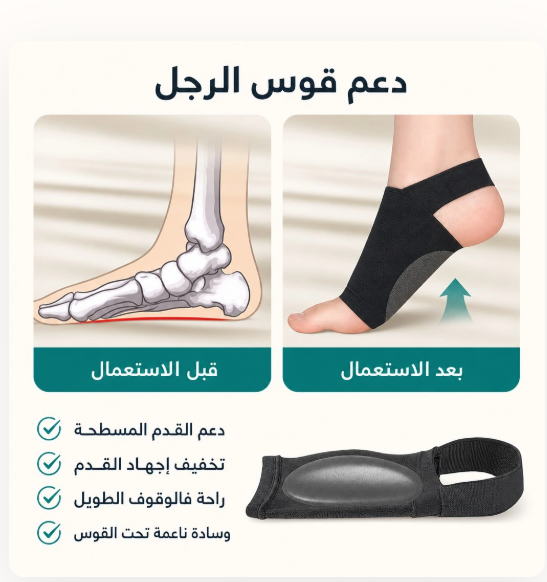
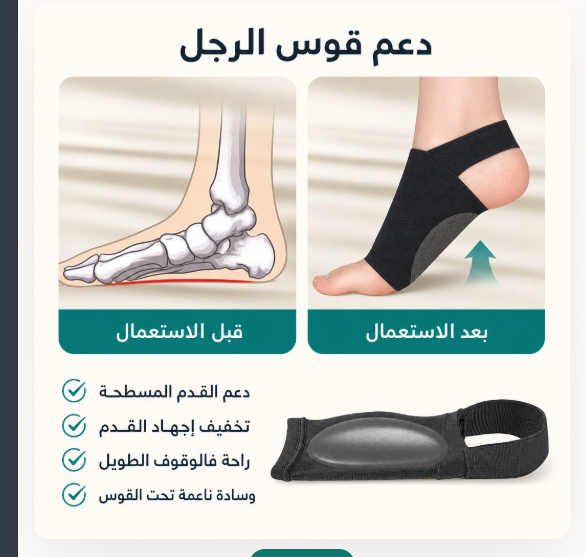
Move arch benefits image below cart items and into checkout

diff --git a/components/cart/cart-drawer.tsx b/components/cart/cart-drawer.tsx
@@ -54,18 +54,6 @@ export function CartDrawer() {
             </Dialog.Close>
           </div>
           <div className="flex-1 overflow-y-auto py-5">
-            {items.some((item) => item.productId === "arch") ? (
-              <div className="mb-4 overflow-hidden rounded-2xl border border-brand-primary/10 bg-[#f7f4ef]">
-                <Image
-                  src="/images/products/arch-cart-benefits.png"
-                  alt="دعم قوس الرجل — قبل وبعد الاستعمال"
-                  width={800}
-                  height={800}
-                  className="h-auto w-full"
-                  priority
-                />
-              </div>
-            ) : null}
             {items.length === 0 ? (
               <p className="text-brand-muted">السلة فارغة دابا.</p>
             ) : (
@@ -105,6 +93,18 @@ export function CartDrawer() {
                 ))}
               </div>
             )}
+
+            {items.some((item) => item.productId === "arch") ? (
+              <div className="mt-4 overflow-hidden rounded-2xl border border-brand-primary/10 bg-[#f7f4ef]">
+                <Image
+                  src="/images/products/arch-cart-benefits.png"
+                  alt="دعم قوس الرجل — قبل وبعد الاستعمال"
+                  width={800}
+                  height={800}
+                  className="h-auto w-full"
+                />
+              </div>
+            ) : null}
 
             {crossSell && crossSellOffer && (
               <div className="mt-6 rounded-[2rem] bg-brand-soft/45 p-4">

diff --git a/components/checkout/checkout-modal.tsx b/components/checkout/checkout-modal.tsx
@@ -4,6 +4,7 @@ import { useState } from "react";
 import * as Dialog from "@radix-ui/react-dialog";
 import { zodResolver } from "@hookform/resolvers/zod";
 import { X } from "lucide-react";
+import Image from "next/image";
 import { useForm } from "react-hook-form";
 import { z } from "zod";
 import { CheckoutTrustBar } from "@/components/trust/checkout-trust-bar";
@@ -182,6 +183,18 @@ export function CheckoutModal() {
                   {siteConfig.priceIncludesShippingNote} — الدفع عند الاستلام فقط
                 </p>
               </div>
+
+              {items.some((item) => item.productId === "arch") ? (
+                <div className="overflow-hidden rounded-2xl border border-brand-primary/10 bg-[#f7f4ef]">
+                  <Image
+                    src="/images/products/arch-cart-benefits.png"
+                    alt="دعم قوس الرجل — قبل وبعد الاستعمال"
+                    width={800}
+                    height={800}
+                    className="h-auto w-full"
+                  />
+                </div>
+              ) : null}
 
               <label className="block">
                 <span className="font-bold">الاسم الكامل</span>
